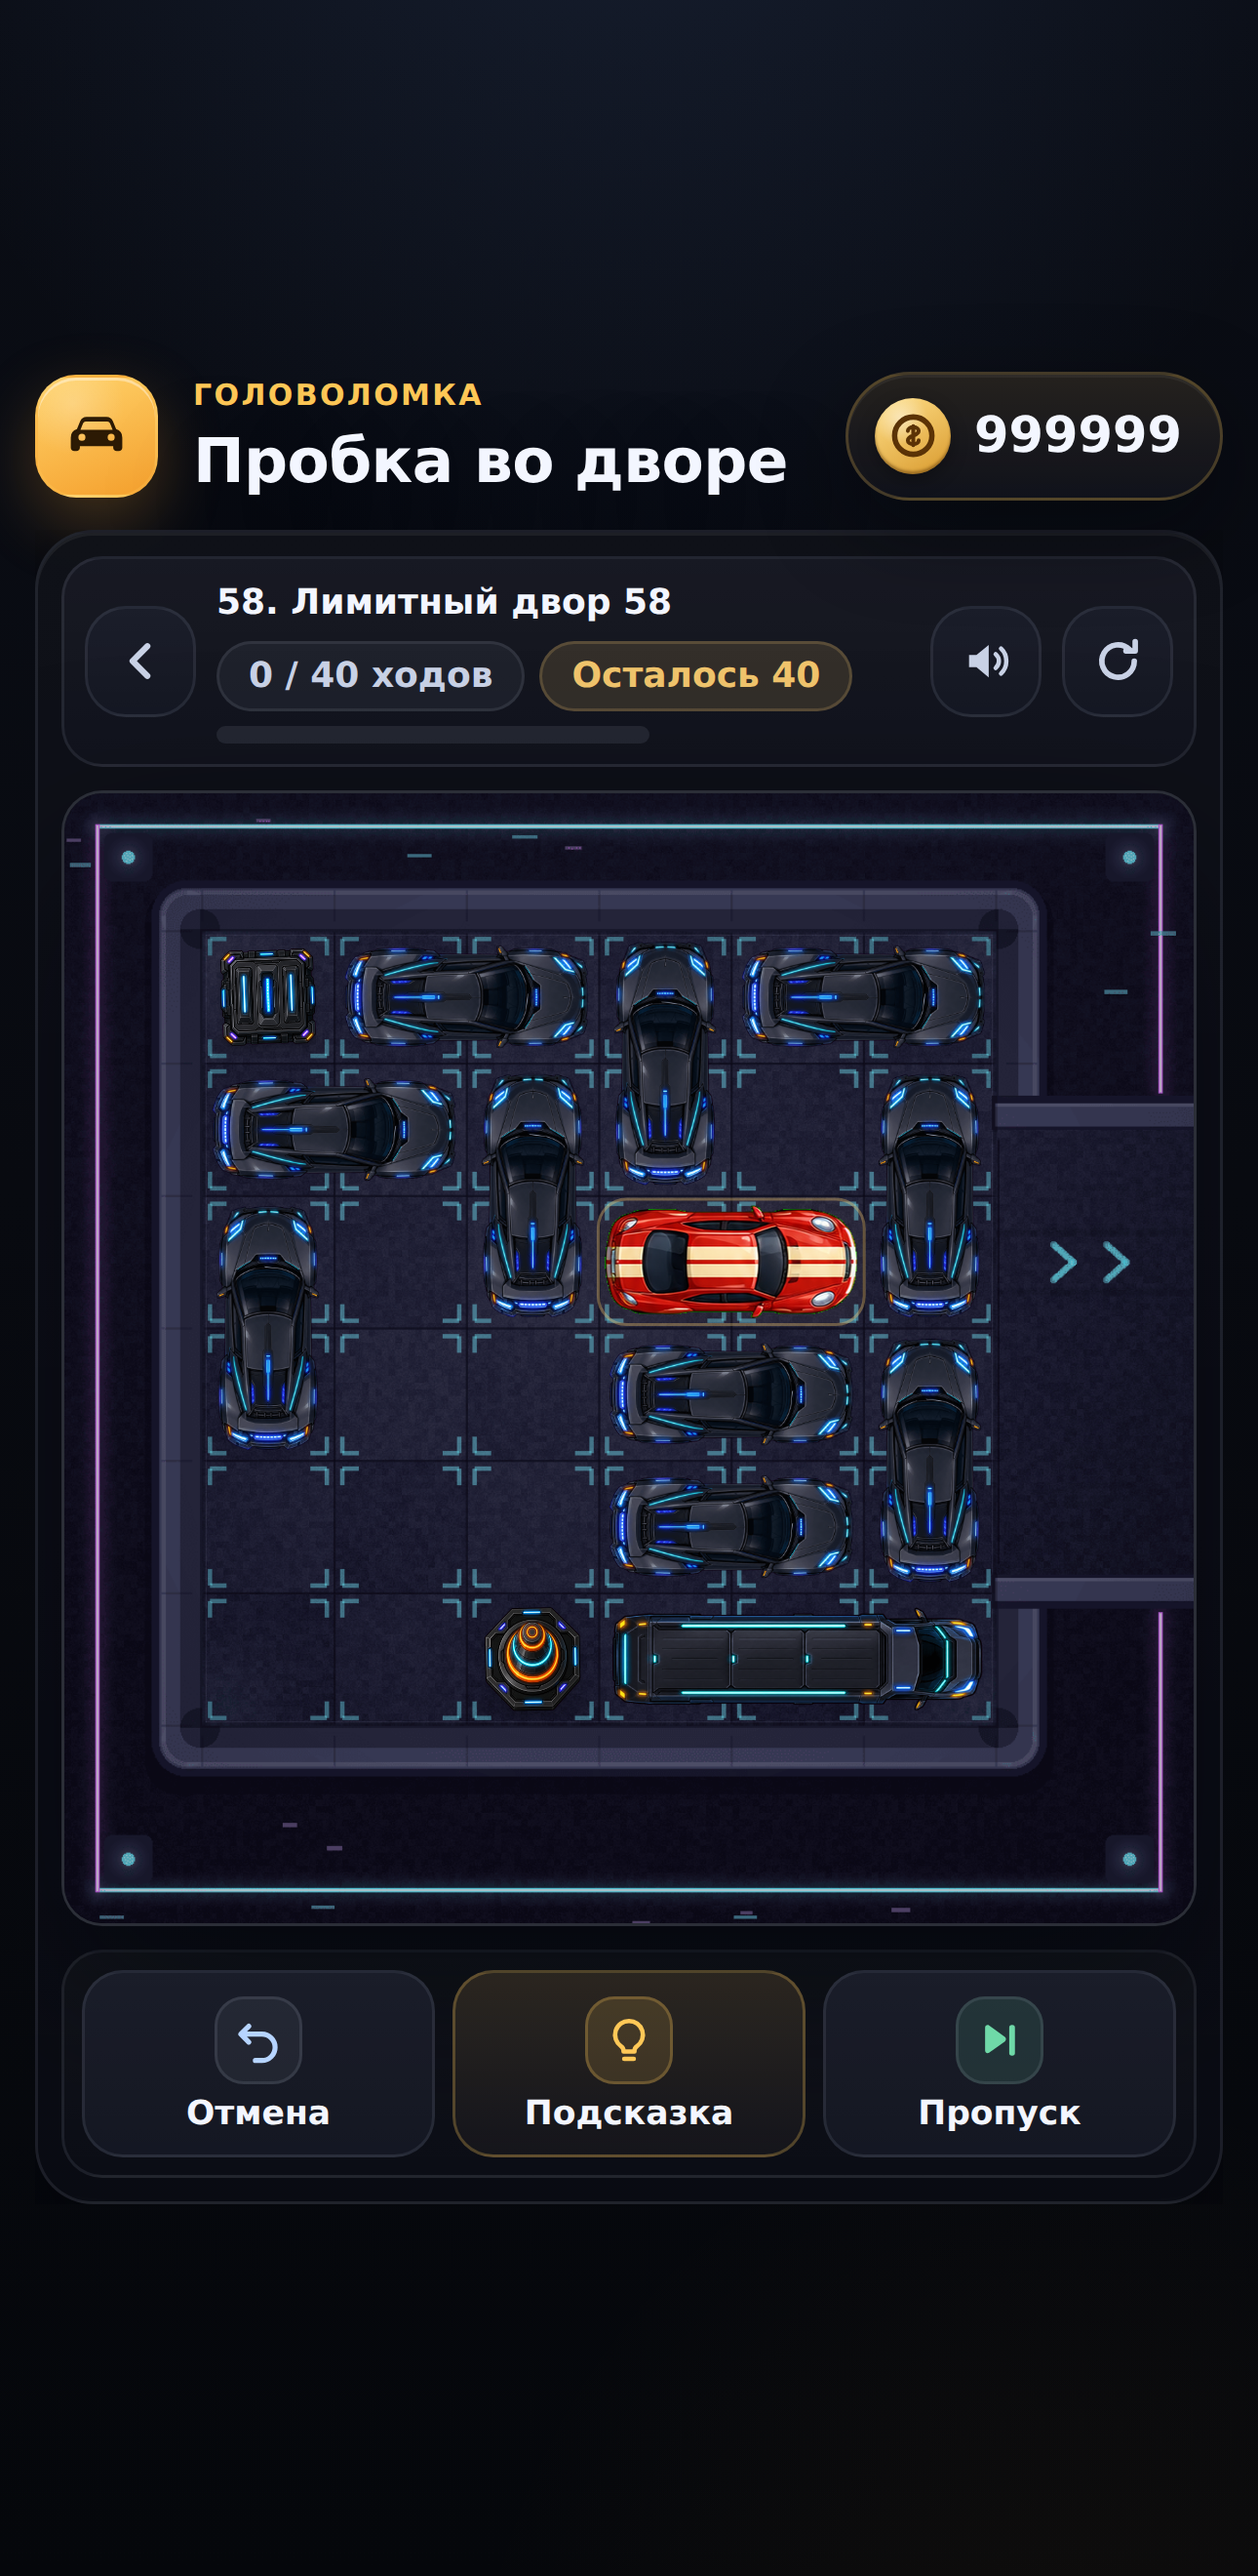
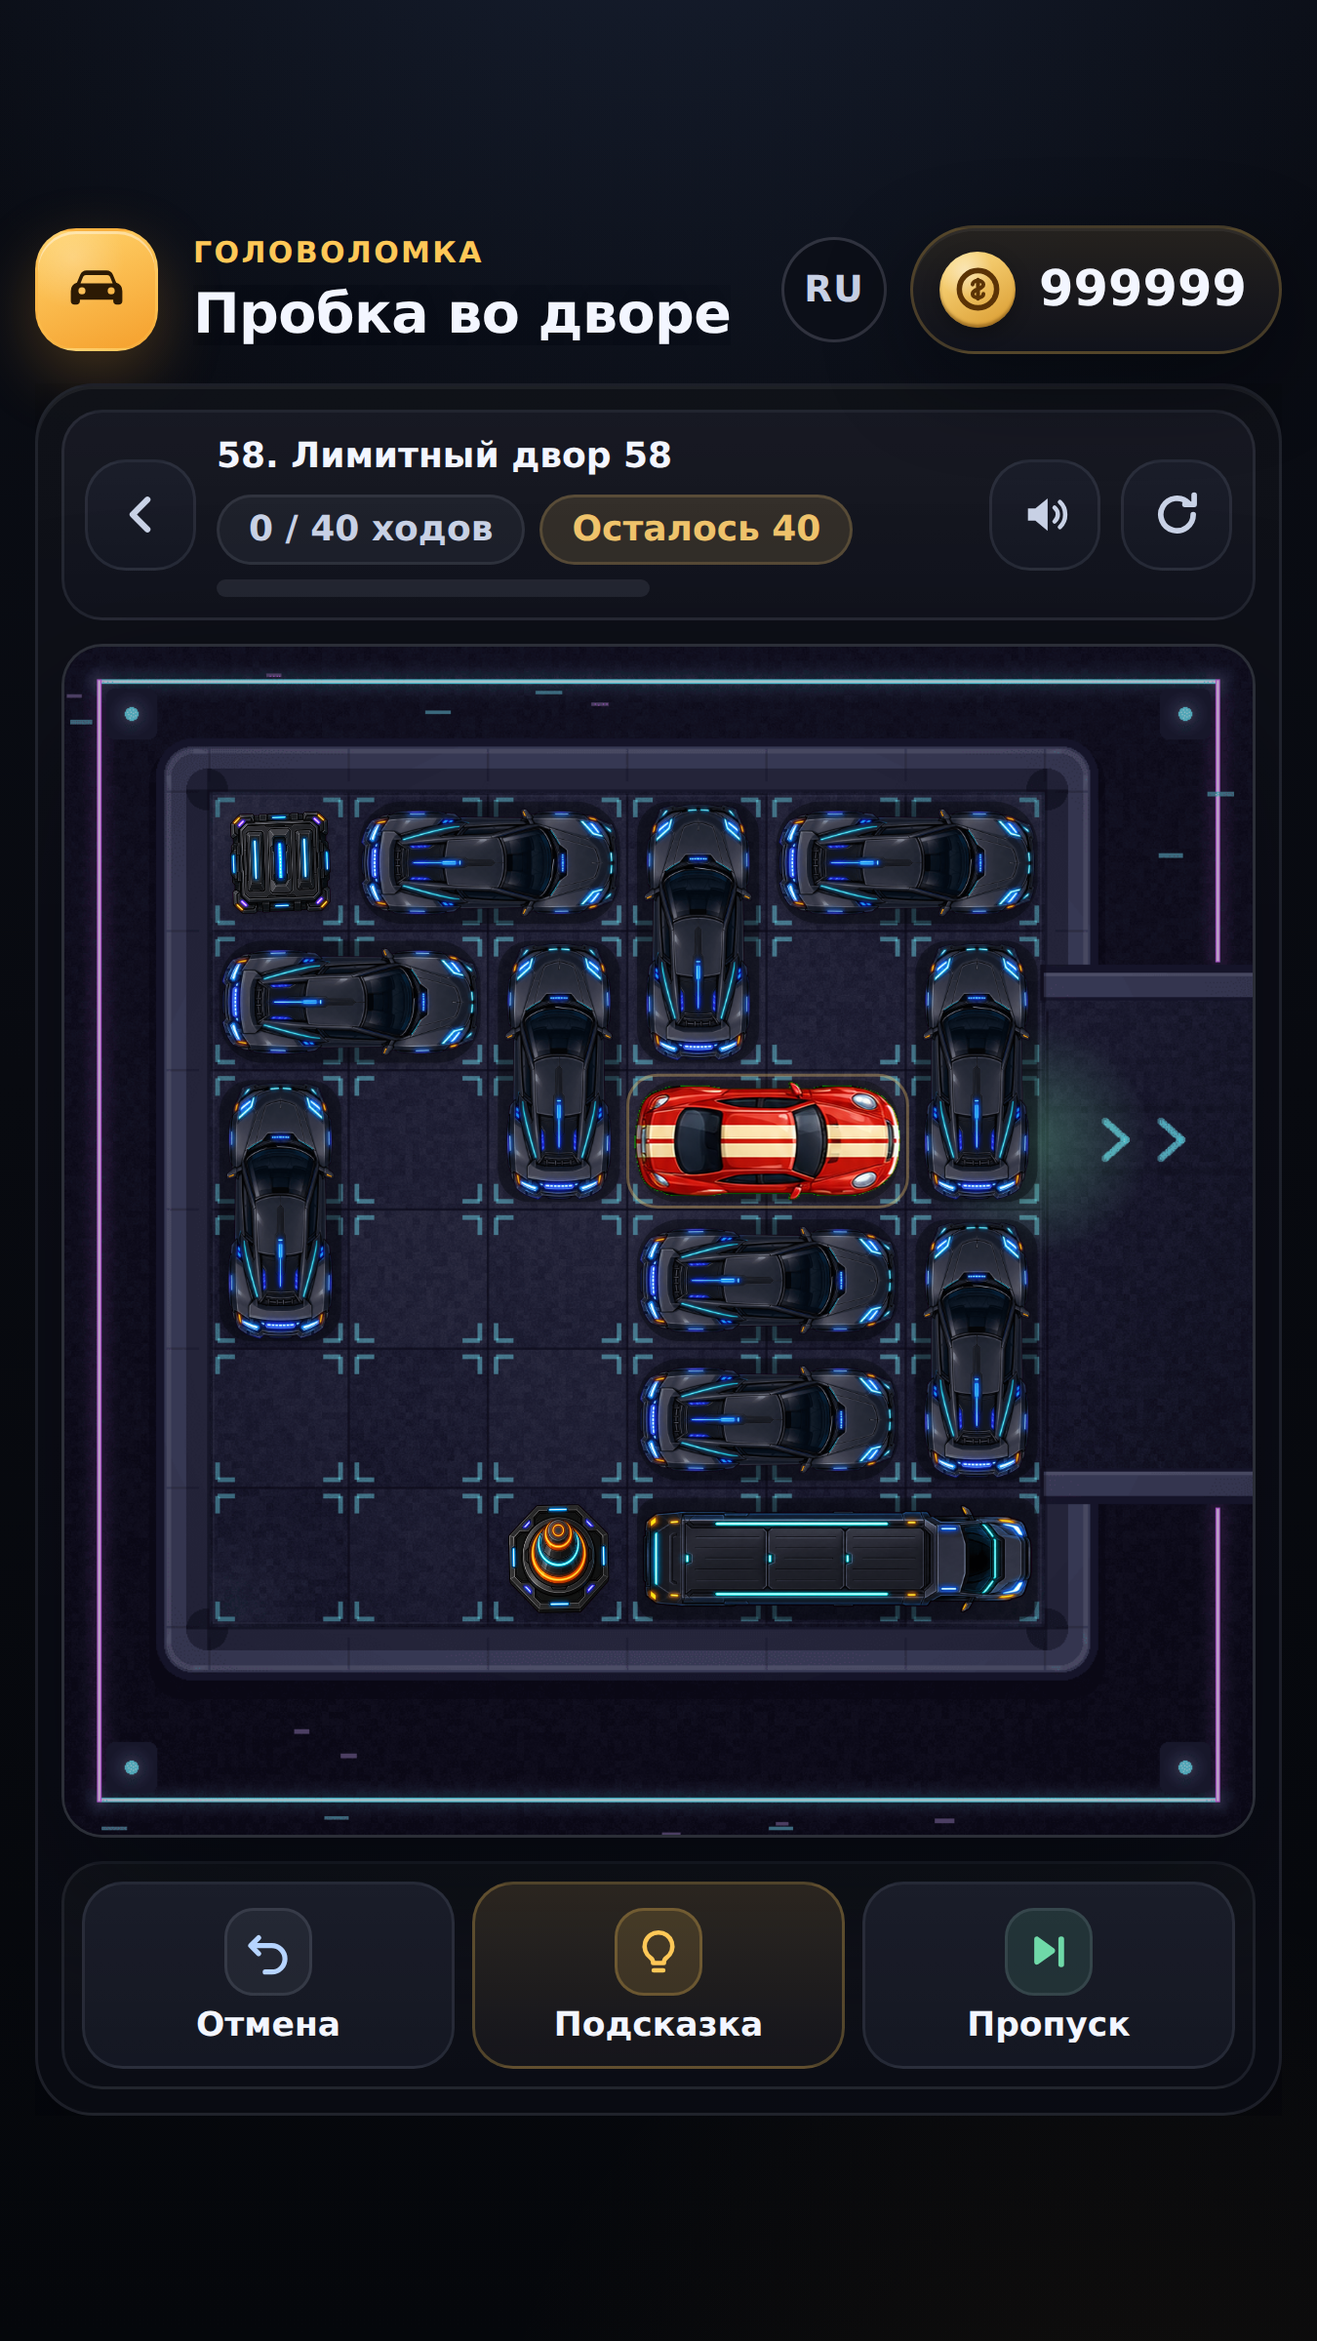
fix(yandex): screenshots to 9:16 (1350x2400), were wrong aspect + oversized
Yandex requires portrait screenshots at exactly 9:16 with the long side
1280-2560 px. The previous screen1-6 were 1290x2640 (ratio ~1:2.05, not
9:16, and 2640 > 2560 max) — a moderation rejection risk. Regenerate at
1350x2400 (exact 9:16, within range), 24-bit PNG, full-bleed RU gameplay.
Update generator constants (450x800 CSS x3) and YANDEX_READINESS.md.

diff --git a/probka-game/tools/generate-yandex-assets.js b/probka-game/tools/generate-yandex-assets.js
@@ -30,9 +30,10 @@ const pages = [
 
 // Скриншоты — полнокадровый портретный геймплей без промо-обёртки:
 // 100% игрового UI, русский язык, без внешних элементов (требования 5.1.1 / 5.1.1.2 / 8.2.3).
-// CSS-размер телефона + высокий DPR дают чёткое изображение 1290x2640.
-const SHOT_CSS_WIDTH = 430;
-const SHOT_CSS_HEIGHT = 880;
+// Требование площадки: портрет строго 9:16, длинная сторона 1280–2560 px.
+// CSS 450x800 (=9:16) × DPR 3 = 1350x2400 — точная пропорция и чёткость.
+const SHOT_CSS_WIDTH = 450;
+const SHOT_CSS_HEIGHT = 800;
 const SHOT_SCALE = 3;
 const shotUrl = (params) => `${baseUrl}/probka-game/index.html?showcase=1&skin=classic_red&${params}`;
 const screenshots = [

diff --git a/probka-game/YANDEX_READINESS.md b/probka-game/YANDEX_READINESS.md
@@ -12,8 +12,9 @@
   всем экранам, включая туториал, гараж, дейли, статистику, модалки).
 - **Иконка/обложка/скриншоты** — актуальные файлы в `releases/yandex-assets/`:
   `icon-512.png` (квадрат без скруглений), `cover-800x470.png` (иллюстрация),
-  `screen1-night.png … screen6-rainy.png` (RU, полнокадровый геймплей).
-  Иконка/обложка — новый концепт «Побег героя».
+  `screen1-night.png … screen6-rainy.png` — **1350×2400 (ровно 9:16,
+  длинная сторона 2400 ≤ 2560)**, 24-bit PNG, RU, 100% полнокадровый
+  геймплей без рамок. Иконка/обложка — новый концепт «Побег героя».
 - **Звук**: эффекты + опциональная фоновая музыка (тумблер в Настройках,
   по умолчанию выкл).
 
@@ -35,7 +36,18 @@
 | Язык из `ysdk.environment` | ⚪ моно-RU | игра только на русском, контент не переключается |
 | Sticky-баннер (RTB) | ⚪ готов, выключен | API в `yandex-sdk.js` есть, не вызывается |
 
-## Сделано этой ночью
+## Сделано (QA-проход)
+- **i18n.js включён в сборку релиза**: файл был в `syntaxFiles`, но отсутствовал в
+  `baseRuntimeFiles` и regex `applyCacheVersion` → пересобранный архив отдавал бы 404
+  на `i18n.js` и ломал английский. Добавлен в оба места (проверено пересборкой архива).
+- **Скриншоты приведены к 9:16**: было 1290×2640 (пропорция ≈1:2.05 и длинная сторона
+  2640 > лимита 2560) → стало **1350×2400** (ровно 9:16, в пределах 1280–2560).
+  Константы в `tools/generate-yandex-assets.js` обновлены.
+- **Грамматика склонений**: «Июль 31 уровней» → «31 уровень» (helper `formatLevelCount`,
+  RU 3-форма / EN 2-форма).
+- **Тулбар**: бренд больше не обрезается (адаптивный перенос), языковой чип — компактный круг.
+
+## Сделано ранее (ночной проход)
 - **Размер архива: 50.2 → 21.1 МБ** (PNG пожаты pngquant+optipng без потерь) — снят главный риск веса.
 - **Interstitial-троттлинг по времени**: минимум 60 с между роликами (`MIN_INTERSTITIAL_INTERVAL_MS`).
 - **blur/focus-хендлеры**: надёжная пауза/mute на мобильных и в WebView Яндекса.
@@ -56,7 +68,7 @@
 | Выделение / контекстное меню (Android/iOS) | 1.6.1.8 | ✅ | `touch-action:none` на `#gameCanvas`, `-webkit-touch-callout:none` |
 | Иконка со скруглёнными углами | 8.3.3 | ✅ | новая `releases/yandex-assets/icon-512.png` — квадрат 512×512 RGB без альфы, углы залиты |
 | Обложка — скриншот из игры | 5.6 | ✅ | использовать `releases/yandex-assets/cover-800x470.png` — иллюстрация, не скриншот |
-| Скриншоты не локализованы / геймплей <70% / внешние элементы | 5.1.1, 5.1.1.2, 8.2.3 | ✅ | новые `screen1-quiet … screen6-business` — портрет 1290×2640, 100% геймплея на русском, без рамок |
+| Скриншоты не локализованы / геймплей <70% / внешние элементы | 5.1.1, 5.1.1.2, 8.2.3 | ✅ | новые `screen1-night … screen6-rainy` — портрет **1350×2400 (9:16)**, 100% геймплея на русском, без рамок |
 
 **Что залить в Консоль (перезаписать старые материалы):**
 - Иконка → `releases/yandex-assets/icon-512.png`
